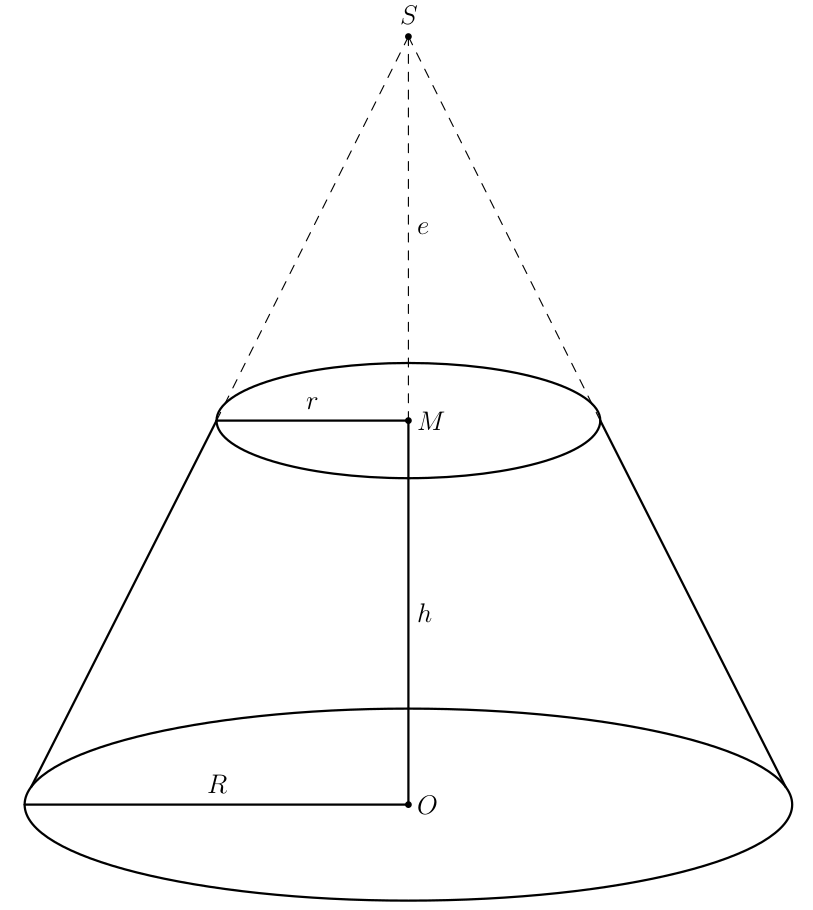
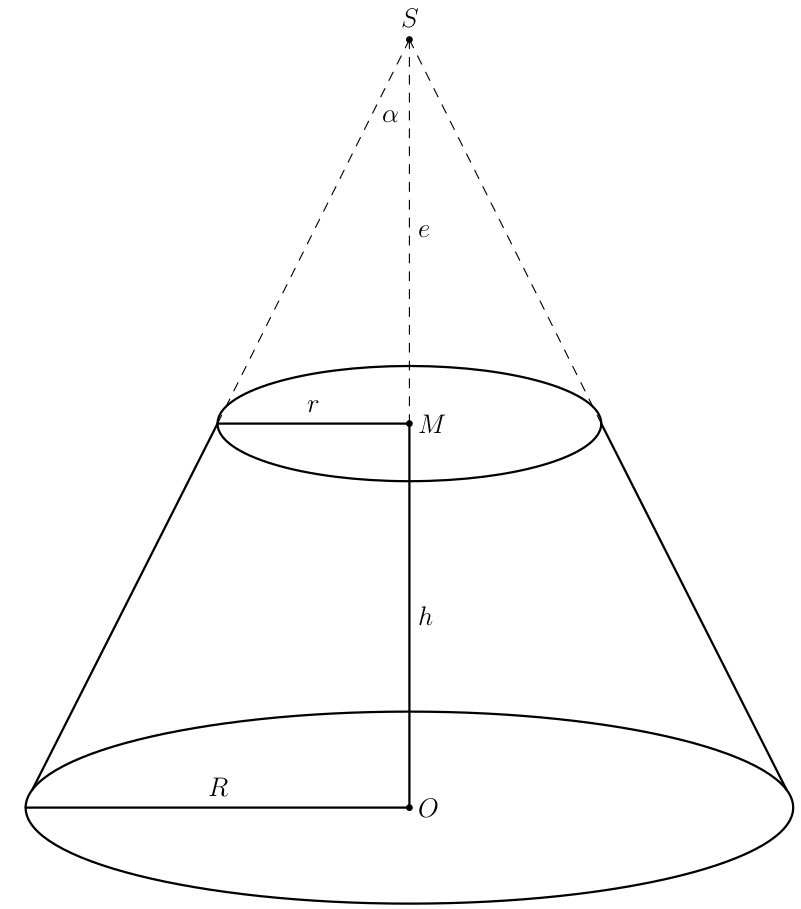
i

diff --git a/gm-14-vectors.tex b/gm-14-vectors.tex
@@ -517,22 +517,22 @@ land one man with one ox could plow in one day.
   \end{equation}
 Consider a frustum. 
   \begin{figure}[h]
-    \includegraphics[scale=.4]{./frustum.png}
+    \includegraphics[scale=.3]{./frustum.png}
   \end{figure}
 \end{frame}
 
 \begin{frame}
   \frametitle{Volume: Cone}
-Let $a$ be the base area of the frustum and $A$ the base area of the
+Let $A$ be the base area of the frustum and $a$ the base area of the
 cone on top of the frustum. Let $\alpha$ be the angle between the
 revolution axis of the cone and the generating side. Then
 \begin{equation}
   \label{eq:aroowiej}
-  \frac{\sqrt{A}}{H}=\frac{\sqrt{R^{2}\pi}}{H}=\frac{R\sqrt{\pi}}{H}=\frac{\sqrt{\pi}H\tan\alpha}{H}=\notag
+  \frac{\sqrt{a}}{e}=\frac{\sqrt{r^{2}\pi}}{e}=\frac{r\sqrt{\pi}}{e}=\sqrt{\pi}\tan\alpha=\frac{R\sqrt{\pi}}{e+h}=\notag
 \end{equation}
 \begin{equation}
   \label{eq:hopeexee}
-  \frac{\sqrt{\pi}r}{H+h}=\frac{\sqrt{r^{2}\pi}}{H+h}=\frac{\sqrt{a}}{H+h}
+  \frac{\sqrt{R^{2}\pi}}{e+h}=\frac{\sqrt{A}}{e+h}
 \end{equation}
 \end{frame}
 
